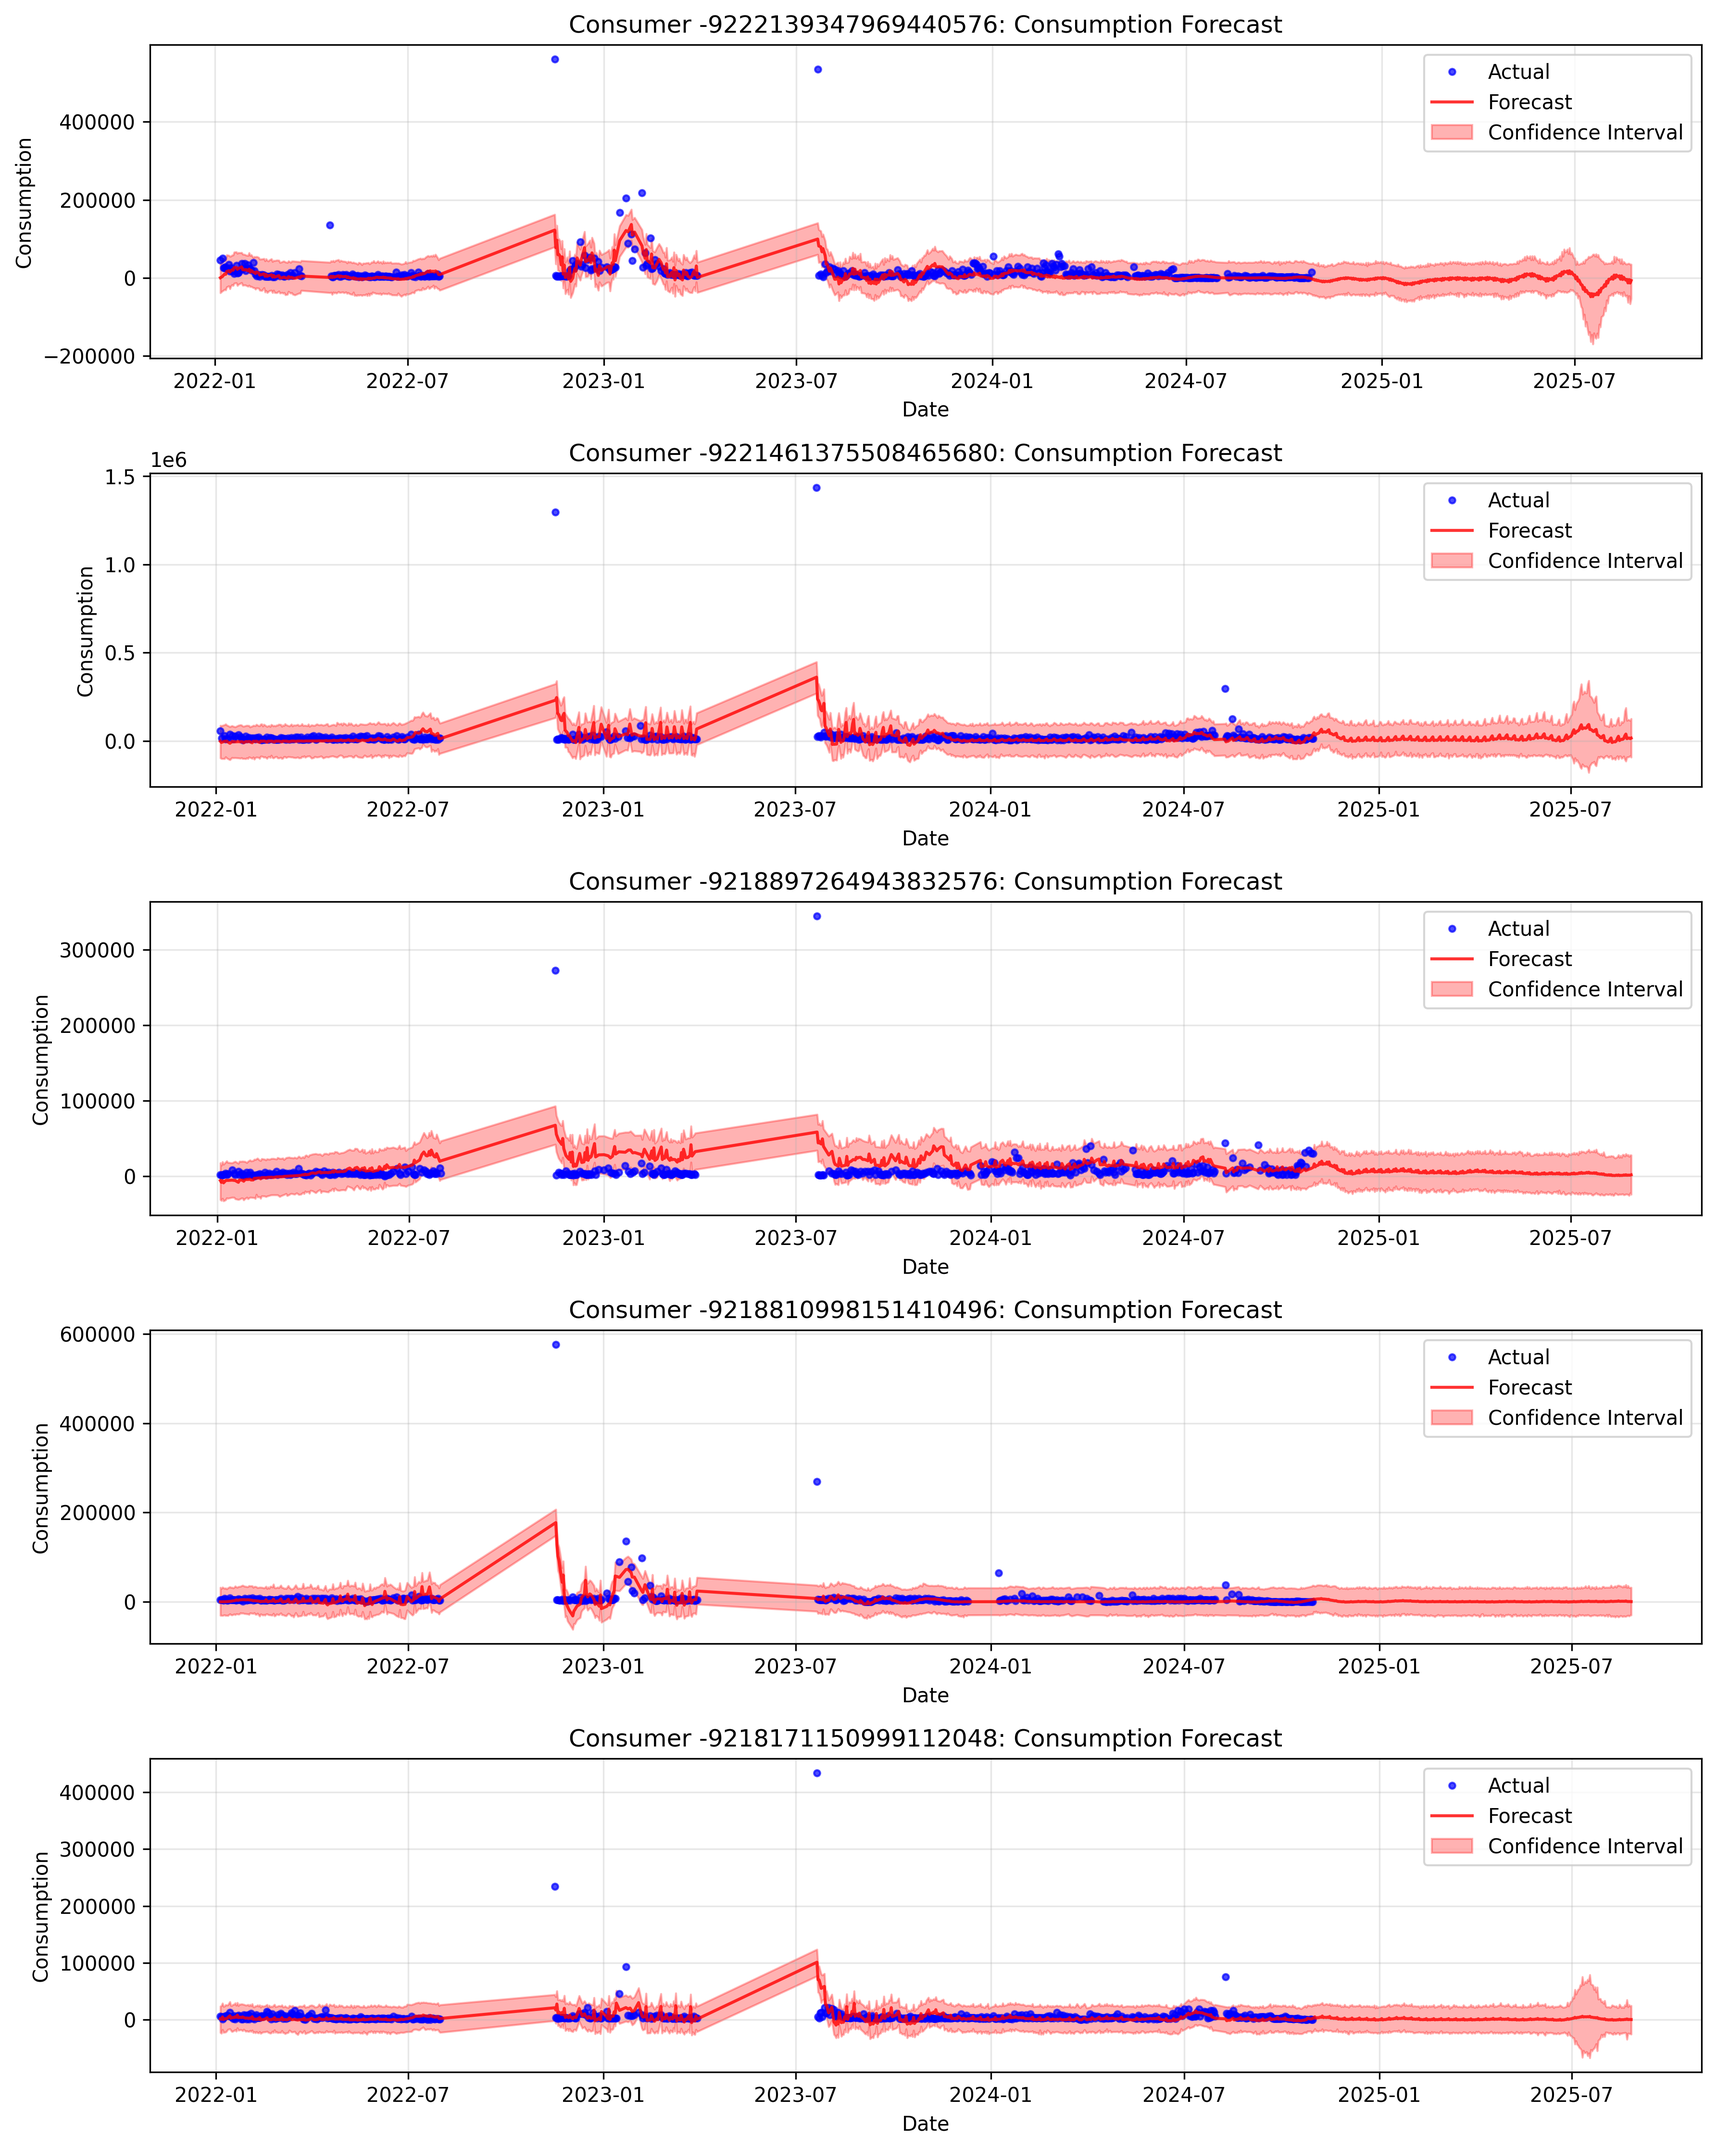
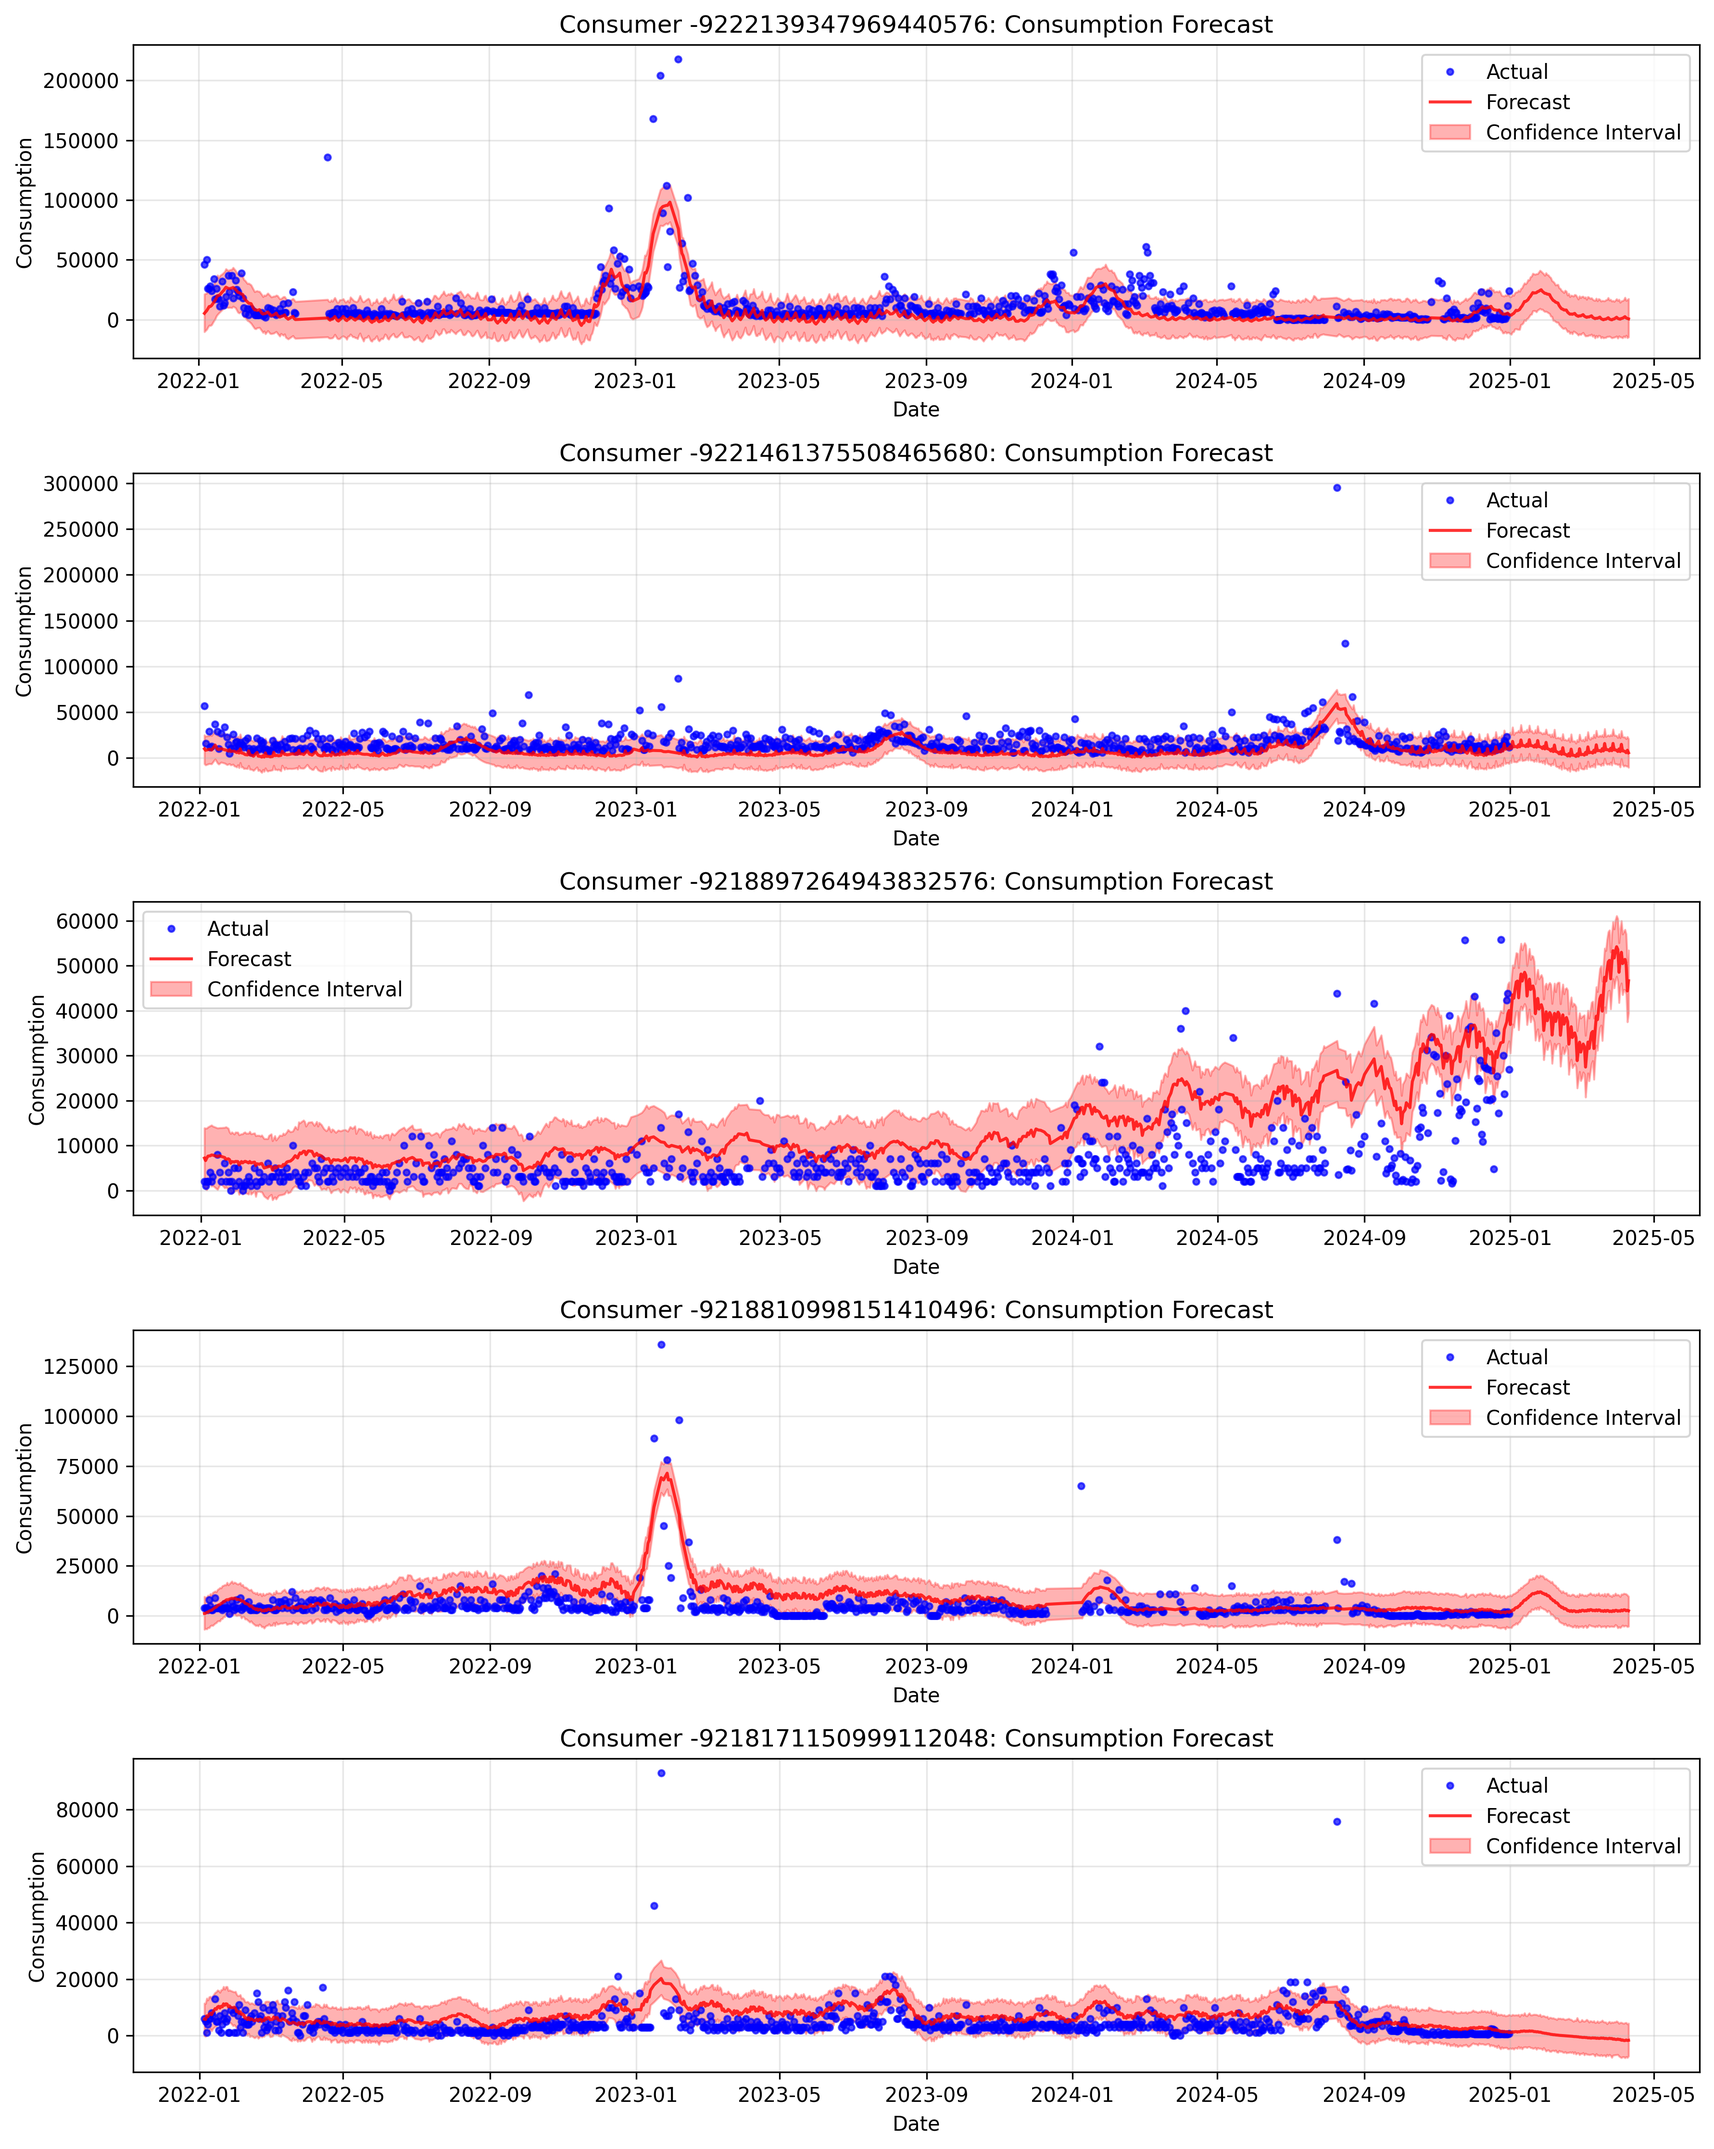
added more data and model is working good

diff --git a/prophet_consumption_forecast.py b/prophet_consumption_forecast.py
@@ -11,9 +11,10 @@ import time
 warnings.filterwarnings('ignore')
 
 def calculate_recent_payments(df_readings, df_payments):
-    # Efficiently calculate recent payments for each reading
+    # Sort payments and readings dataframes
     df_payments = df_payments.sort_values(['consumer_id', 'payment_date'])
     df_readings = df_readings.sort_values(['consumer_id', 'reading_date'])
+    # Initialize recent payments at 0
     df_readings['recent_payments'] = 0.0
 
     # Group by consumer for efficiency
@@ -45,9 +46,12 @@ def prepare_consumer_data_with_regressors(df_readings, consumer_id):
     prophet_data = prophet_data[prophet_data['y'] >= 0]
     # Drop rows with NaNs in regressors
     prophet_data = prophet_data.dropna(subset=['recent_payments'])
+    if len(prophet_data) < 5:
+        print(f"Consumer {consumer_id}: less than 5 valid rows after all cleaning")
+        return None
     return prophet_data
 
-def fit_and_forecast_prophet(prophet_data, periods=0):
+def fit_and_forecast_prophet(prophet_data, periods=100):
     try:
         model = Prophet(
             yearly_seasonality=True,
@@ -59,7 +63,7 @@ def fit_and_forecast_prophet(prophet_data, periods=0):
         model.add_regressor('recent_payments')
         model.fit(prophet_data)
         # Make future predictions
-        future = model.make_future_dataframe(periods=300)
+        future = model.make_future_dataframe(periods=periods)
         for reg in ['recent_payments']:
             last_val = prophet_data[reg].iloc[-1]
             future[reg] = last_val
@@ -76,11 +80,6 @@ def fit_and_forecast_prophet(prophet_data, periods=0):
                 predicted = predicted[:min_len]
                 metrics['rmse'] = np.sqrt(mean_squared_error(actual, predicted))
                 metrics['mae'] = mean_absolute_error(actual, predicted)
-                # nonzero_actual = actual != 0
-                # if np.any(nonzero_actual):
-                #     metrics['mape'] = np.mean(np.abs((actual[nonzero_actual] - predicted[nonzero_actual]) / actual[nonzero_actual])) * 100
-                # else:
-                #     metrics['mape'] = np.nan
         return {
             'model': model,
             'forecast': forecast,
@@ -94,19 +93,23 @@ def fit_and_forecast_prophet(prophet_data, periods=0):
 def process_single_consumer(args):
     consumer_id, df_readings, periods = args
     prophet_data = prepare_consumer_data_with_regressors(df_readings, consumer_id)
-    if prophet_data is None or len(prophet_data) < 5:
+    if prophet_data is None:
         return {
             'consumer_id': consumer_id,
             'status': 'insufficient_data',
             'data_points': len(prophet_data) if prophet_data is not None else 0
         }
-    result = fit_and_forecast_prophet(prophet_data, periods)
+    
+    else:
+        result = fit_and_forecast_prophet(prophet_data, periods)
+
     if result is None:
         return {
             'consumer_id': consumer_id,
             'status': 'model_failed',
             'data_points': len(prophet_data)
         }
+    
     return {
         'consumer_id': consumer_id,
         'status': 'success',
@@ -123,12 +126,12 @@ def main():
 
     # 1. Read and merge all reading files
     print("Step 1: Loading and merging reading data...")
-    reading_files = glob.glob("*reading*.csv")
+    reading_files = glob.glob("csv/*reading*.csv")
     print(f"Found {len(reading_files)} reading files: {reading_files}")
     df_readings = pd.concat([pd.read_csv(f) for f in reading_files], ignore_index=True)
     df_readings['reading_date'] = pd.to_datetime(df_readings['reading_date'])
 
-     # Find duplicate rows (excluding the first occurrence)
+    # Find duplicate rows (excluding the first occurrence)
     # duplicates = df_readings.duplicated(subset=['consumer_id', 'reading_date'], keep=False)
 
     # Show all duplicates
@@ -136,44 +139,35 @@ def main():
     # print(f"Number of duplicate (consumer_id, reading_date) pairs: {duplicate_rows.shape[0]}")
     # print(duplicate_rows)
   
-    # Sort and remove duplicates
+    # 2. Remove duplicates and sort
     df_readings = df_readings.drop_duplicates(subset=['consumer_id', 'reading_date'])
     df_readings = df_readings.dropna(subset=['reading_date'])
     df_readings = df_readings.sort_values(['consumer_id', 'reading_date']).reset_index(drop=True)
     print(f"Total readings: {len(df_readings)}")
     print(f"Unique consumers: {df_readings['consumer_id'].nunique()}")
 
-    # for cid, group in df_readings.groupby('consumer_id'):
-    #     if not group['reading_date'].is_monotonic_increasing:
-    #         print(f"Not sorted for consumer_id {cid}")
-
     # 3. Read payments and calculate recent payments
-    df_payments = pd.read_csv("confirmed_payment.csv")
+    df_payments = pd.read_csv("csv/confirmed_payment.csv")
     df_payments['payment_date'] = pd.to_datetime(df_payments['payment_date'])
-    
-    first_100_consumers = df_readings['consumer_id'].drop_duplicates().head(10)
-    df_readings = df_readings[df_readings['consumer_id'].isin(first_100_consumers)]
     df_readings = calculate_recent_payments(df_readings, df_payments)
     print(f"Date range: {df_readings['reading_date'].min()} to {df_readings['reading_date'].max()}")
-    print(f"Unique consumers: {df_readings['consumer_id'].nunique():,}")
 
-    # 5. Get list of consumers with sufficient data
+    # 4. Get list of consumers with sufficient data
     print("\nStep 2: Identifying consumers with sufficient data...")
     consumer_counts = df_readings.groupby('consumer_id').size()
     consumers_with_data = consumer_counts[consumer_counts >= 5].index.tolist()
     print(f"Consumers with 5+ readings: {len(consumers_with_data):,}")
-    # For testing, use a subset of consumers
-    test_consumers = consumers_with_data  # Start with 100 consumers
-    print(f"Testing with first {len(test_consumers)} consumers")
-    # 6. Process consumers (with parallel processing)
+
+    # 5. Process consumers (with parallel processing)
     print("\nStep 3: Fitting Prophet models and forecasting...")
-    args_list = [(consumer_id, df_readings, 30) for consumer_id in test_consumers]
+    args_list = [(consumer_id, df_readings, 100) for consumer_id in consumers_with_data]
     results = []
     with ProcessPoolExecutor() as executor:
         for i, result in enumerate(executor.map(process_single_consumer, args_list)):
             results.append(result)
-            # if (i + 1) % 10 == 0:
-                # print(f"Processed {i + 1}/{len(test_consumers)} consumers")
+            if (i + 1) % 10 == 0:
+                print(f"Processed {i + 1}/{len(consumers_with_data)} consumers")
+    
     # 7. Analyze results
     print("\nStep 4: Analyzing results...")
     successful_results = [r for r in results if r['status'] == 'success']
@@ -183,19 +177,15 @@ def main():
     if successful_results:
         rmse_values = [r['metrics'].get('rmse', np.nan) for r in successful_results if 'rmse' in r['metrics']]
         mae_values = [r['metrics'].get('mae', np.nan) for r in successful_results if 'mae' in r['metrics']]
-        # mape_values = [r['metrics'].get('mape', np.nan) for r in successful_results if 'mape' in r['metrics']]
         print(f"\nAverage RMSE: {np.nanmean(rmse_values):.2f}")
         print(f"Average MAE: {np.nanmean(mae_values):.2f}")
-        # print(f"Average MAPE: {np.nanmean(mape_values):.2f}%")
+        print("Mean consumption:", df_readings['reading'].mean())
+        print("Median consumption:", df_readings['reading'].median())
+        print("Max consumption:", df_readings['reading'].max())
+        print("Min consumption:", df_readings['reading'].min())
+
         # 8. Visualize results for a few consumers
         print("\nStep 5: Creating visualizations...")
-
-        # df_readings['reading'].hist(bins=50)
-        # plt.xlabel('Consumption')
-        # plt.ylabel('Frequency')
-        # plt.title('Distribution of Consumption Values')
-        # plt.show()
-
         fig, axes = plt.subplots(5, 1, figsize=(12, 15))
         for i, result in enumerate(successful_results[:5]):
             consumer_id = result['consumer_id']
@@ -211,14 +201,12 @@ def main():
             ax.set_title(f'Consumer {consumer_id}: Consumption Forecast')
             ax.set_xlabel('Date')
             ax.set_ylabel('Consumption')
-            # ymin = df_readings['reading'].min()
-            # ymax = df_readings['reading'].max()
-            # ax.set_ylim(ymin * 0.95, ymax * 1.05)
             ax.legend()
             ax.grid(True, alpha=0.3)
         plt.tight_layout()
         plt.savefig('prophet_forecasts.png', dpi=300, bbox_inches='tight')
         print("Forecast plots saved as 'prophet_forecasts.png'")
+
         # 9. Save results
         print("\nStep 6: Saving results...")
         summary_df = pd.DataFrame([
@@ -226,9 +214,8 @@ def main():
                 'consumer_id': r['consumer_id'],
                 'status': r['status'],
                 'data_points': r['data_points'],
-                'rmse': r['metrics'].get('rmse', np.nan),
-                'mae': r['metrics'].get('mae', np.nan),
-                # 'mape': r['metrics'].get('mape', np.nan)
+                'rmse': r.get('metrics', {}).get('rmse', np.nan),
+                'mae': r.get('metrics', {}).get('mae', np.nan),
             }
             for r in results
         ])
@@ -246,15 +233,19 @@ def main():
     print("\nProphet forecasting completed!")
     print("=" * 60)
 
-    # Check sort per group
-
     print(f"Total runtime: {time.time() - start_time:.2f} seconds")
-
-    print("Mean consumption:", df_readings['reading'].mean())
-    print("Median consumption:", df_readings['reading'].median())
-    print("Max consumption:", df_readings['reading'].max())
-    print("Min consumption:", df_readings['reading'].min())
     print(forecast['ds'].tail(10))
+
+    empty_forecasts = 0
+    for result in successful_results:
+        if result['forecast'].empty:
+            empty_forecasts += 1
+    print(f"Пустых прогнозов: {empty_forecasts}")
+
+    df = pd.read_csv('prophet_forecasts.csv')
+    print(df['consumer_id'].nunique())
+
+
 
 if __name__ == "__main__":
     main() 
